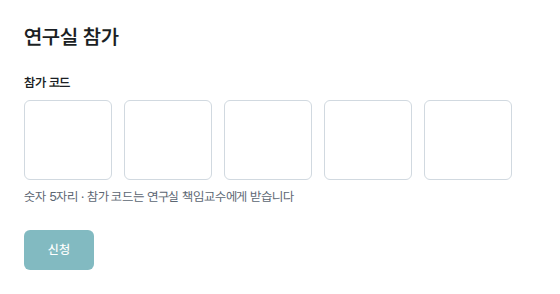
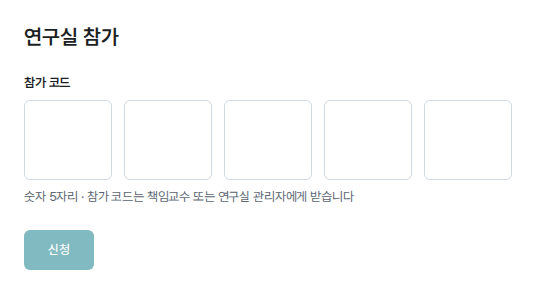
docs(JPUShare): 웹으로 사용하기·AI 에이전트로 사용하기 두 갈래로 재구성, 에이전트 연결하기 페이지·llms.txt 신설, 옛 주소 301 (agent-docs F004·F005·F006)

Changed region(s): [[0.2429, 0.6429, 0.6375, 0.7041]]

diff --git a/src/components/LeftSidebar/Navigation.js b/src/components/LeftSidebar/Navigation.js
@@ -79,13 +79,17 @@ const calculateTreeData = (edges, sidebarConfig) => {
       }
       prevItems = tmp.items;
     }
-    prevItems.forEach(item => {
-      item.items = item.items.sort(function(a, b) {
-        if (a.label < b.label) return -1;
-        if (a.label > b.label) return 1;
-        return 0;
+    const sortByLabel = items => {
+      items.forEach(item => {
+        item.items = item.items.sort(function(a, b) {
+          if (a.label < b.label) return -1;
+          if (a.label > b.label) return 1;
+          return 0;
+        });
+        sortByLabel(item.items);
       });
-    });
+    };
+    sortByLabel(prevItems);
     const index = prevItems.findIndex(({ label }) => label === parts[parts.length - 1]);
     accu.items.unshift(prevItems.splice(index, 1)[0]);
     return accu;

diff --git a/skills/jpushare/SKILL.md b/skills/jpushare/SKILL.md
@@ -17,7 +17,7 @@ JPUShare는 연구실 구성원이 GPU 서버를 함께 쓰는 서비스다. 이
 - **키가 있는지 확인**: 환경 변수 `JPUSHARE_API_KEY`가 비어 있으면 작업을 시작하지 말고 사람에게 다음을 안내한다.
   1. JPUShare(https://share.jedutools.io)에 로그인한다.
   2. 왼쪽 위 **내 정보/설정** → **API 키 발급**에서 키 이름과 유효 기간을 정하고, 할 일에 필요한 허용 범위만 고른다(2절 표). 연결 확인(`GET /v1/me`)에는 `account:read`가 필요하다.
-  3. 한 번만 보이는 `jpk_...` 원문을 복사한다.
+  3. **API 키 발급**을 누르고(작업 제출처럼 권한이 큰 범위를 고르면 **키 허용 범위 확인** 창에서 **확인 후 발급**), 한 번만 보이는 `jpk_...` 원문을 복사한다.
   4. 터미널에서 `export JPUSHARE_API_KEY='jpk_...'`를 실행한 뒤 **그 터미널에서 에이전트를 다시 시작**한다. 이미 켜져 있던 에이전트는 나중에 export한 값을 모른다.
 - **에이전트는 키를 스스로 만들 수 없다.** 키 발급·목록·폐기(`/v1/api-keys`)는 웹 로그인 전용이라 키로 부르면 403 `JWT_REQUIRED`다.
 - **사람이 키를 채팅에 붙여 넣은 경우**: 막지는 않는다. 다만 "붙여 넣은 키는 AI 서비스 쪽 대화 기록에 남습니다. 다음부터는 환경 변수로 넘기는 편이 안전합니다"라고 한 번 알린다. 그 키는 이 세션의 환경 변수(`export JPUSHARE_API_KEY=...`)로만 쓰고, 파일·커밋·출력에 다시 쓰지 않는다.
